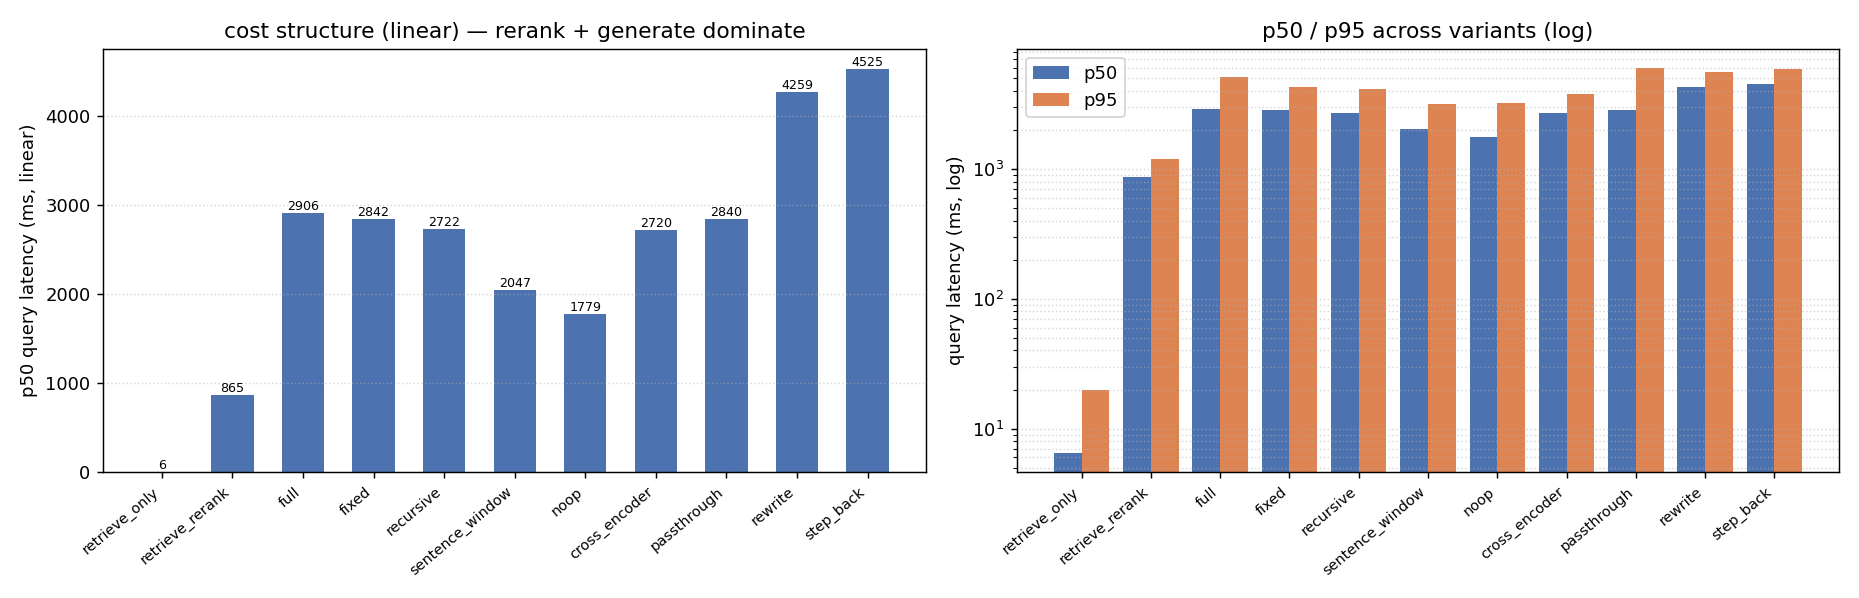
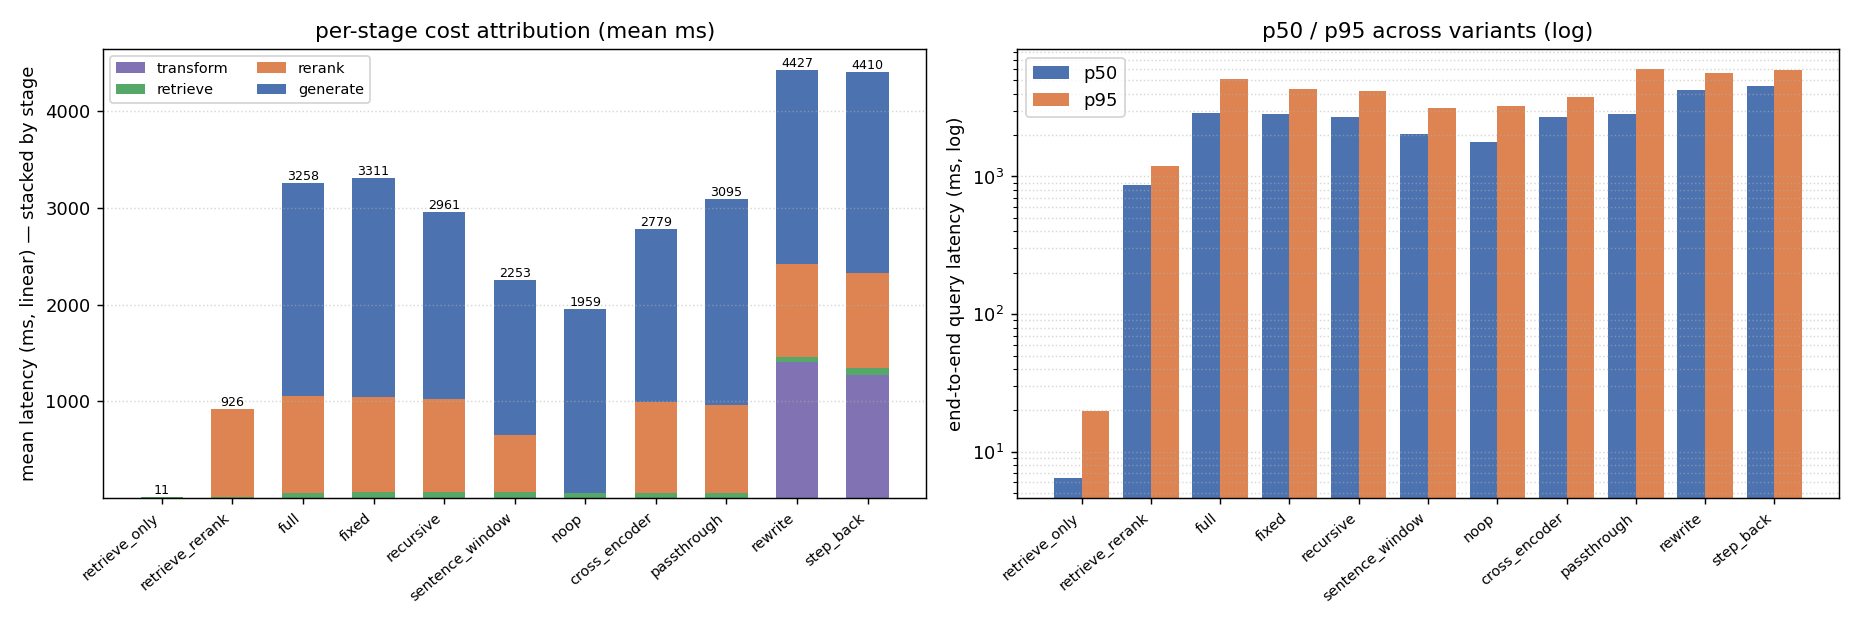
Report round 2: second adversarial pass (factual + visual fixes)
A second context-isolated critic cross-checked 15+ numbers. Round-2 fixes:

- FACTUAL: 'recall@50 saturated at ~0.85, cannot discriminate' was false —
  it's 0.85 only on the base index and drops to 0.72/0.78/0.79 for
  sentence_window / qt_step_back / qt_rewrite. Corrected in both places;
  surfaced the drops in §2/§4. (M1)
- SELF-CONTRADICTION: headline said the reranker degrades MRR, but the
  reranker leaves MRR identical (re-orders the same candidates). Scoped
  MRR-degradation to the transforms; reranker = 'MRR unchanged, p@n within
  noise'. (m4)
- Latency figure's linear panel is now a STACKED per-stage bar
  (transform/retrieve/rerank/generate), so 'rerank + generate dominate'
  is shown, not just asserted; transform slice is visible on rewrite/
  step_back. (M3)
- Per-family figures get captions pointing to the latency figure/table,
  since quality-only charts hid the headline cost finding. (M2)
- rewrite/step_back MRR drops reclassified as single-LLM-draw (not
  run-to-run deterministic) in §5. (m3)
- Disclosed index-size asymmetry (sentence_window 4,519 vs ~3,222
  chunks). (m2)
- Noted the mean (per-stage) vs p50 (end-to-end) statistic distinction. (m1)
- Auto-generated tables now carry a noise-floor + '— means not measured'
  footnote for tables-only readers. (m5)

diff --git a/scripts/plot_experiments.py b/scripts/plot_experiments.py
@@ -144,50 +144,58 @@ def plot_latency(variants: dict[str, Any], out_dir: Path) -> Path | None:
     """Per-query latency across variants, drawn twice.
 
     Two panels because no single y-axis is honest here: values span ~8 ms (retrieve-only)
-    to ~4.5 s (judged + transform). A **linear** panel (left) shows the true cost
-    structure — the headline finding that rerank and generation dominate — with the ms
-    value labelled on each bar so the magnitudes are unambiguous. A **log** panel (right)
-    keeps every variant visible for cross-variant comparison. Reading only the log panel
-    would visually flatten the 360× spread the linear panel exists to show.
+    to ~4.5 s (judged + transform). The **linear** panel (left) is a **stacked per-stage**
+    bar (transform / retrieve / rerank / generate mean ms) so the cost *attribution* — the
+    headline finding that rerank and generation dominate, and that the LLM transforms add a
+    third large slice — is visible, not just asserted. The **log** panel (right) shows
+    end-to-end p50/p95 so every variant stays comparable across the 8 ms–4.5 s range; reading
+    only the log panel would flatten the ~two-orders-of-magnitude spread the linear panel
+    exists to show.
     """
-    rows: list[tuple[str, float, float]] = []
+    stage_keys = [
+        ("transform_ms", "transform", _COLORS[4]),
+        ("retrieve_ms", "retrieve", _COLORS[2]),
+        ("rerank_ms", "rerank", _COLORS[1]),
+        ("generate_ms", "generate", _COLORS[0]),
+    ]
+    rows: list[tuple[str, dict[str, Any]]] = []
     for names in FAMILIES.values():
         for name, summary in _summaries(variants, names):
-            p50 = summary.get("query_latency_ms_p50")
-            p95 = summary.get("query_latency_ms_p95")
-            if p50 is not None:
-                rows.append((name, p50, p95 if p95 is not None else p50))
+            if summary.get("query_latency_ms_p50") is not None:
+                rows.append((name, summary))
     if not rows:
         return None
 
     fig, (ax_lin, ax_log) = plt.subplots(
-        1, 2, figsize=(max(12, len(rows) * 1.3), 4.6)
+        1, 2, figsize=(max(12, len(rows) * 1.3), 4.8)
     )
-    x = range(len(rows))
+    x = list(range(len(rows)))
     width = 0.4
-    labels = [_short(r[0]) for r in rows]
+    labels = [_short(name) for name, _ in rows]
 
-    # Linear panel: p50 only, value-labelled — the honest cost-structure view.
-    bars = ax_lin.bar(list(x), [r[1] for r in rows], width=0.6, color=_COLORS[0])
-    for rect, (_, p50, _) in zip(bars, rows, strict=True):
-        ax_lin.annotate(
-            f"{p50:.0f}", (rect.get_x() + rect.get_width() / 2, p50),
-            ha="center", va="bottom", fontsize=7,
-        )
-    ax_lin.set_ylabel("p50 query latency (ms, linear)")
-    ax_lin.set_xticks(list(x))
+    # Linear panel: stacked per-stage mean latency — shows WHERE the cost goes.
+    bottoms = [0.0] * len(rows)
+    for key, label, color in stage_keys:
+        heights = [float(s.get(key) or 0.0) for _, s in rows]
+        ax_lin.bar(x, heights, width=0.6, bottom=bottoms, label=label, color=color)
+        bottoms = [b + h for b, h in zip(bottoms, heights, strict=True)]
+    for i, total in enumerate(bottoms):
+        ax_lin.annotate(f"{total:.0f}", (i, total), ha="center", va="bottom", fontsize=7)
+    ax_lin.set_ylabel("mean latency (ms, linear) — stacked by stage")
+    ax_lin.set_xticks(x)
     ax_lin.set_xticklabels(labels, rotation=40, ha="right", fontsize=8)
-    ax_lin.set_title("cost structure (linear) — rerank + generate dominate")
+    ax_lin.set_title("per-stage cost attribution (mean ms)")
+    ax_lin.legend(fontsize=8, ncol=2)
     ax_lin.grid(axis="y", linestyle=":", alpha=0.5)
 
-    # Log panel: p50 + p95, every variant visible across the 8ms–4.5s range.
-    ax_log.bar([i - width / 2 for i in x], [r[1] for r in rows], width, label="p50",
-               color=_COLORS[0])
-    ax_log.bar([i + width / 2 for i in x], [r[2] for r in rows], width, label="p95",
-               color=_COLORS[1])
+    # Log panel: end-to-end p50 + p95, every variant visible across the 8ms–4.5s range.
+    p50s = [float(s["query_latency_ms_p50"]) for _, s in rows]
+    p95s = [float(s.get("query_latency_ms_p95") or s["query_latency_ms_p50"]) for _, s in rows]
+    ax_log.bar([i - width / 2 for i in x], p50s, width, label="p50", color=_COLORS[0])
+    ax_log.bar([i + width / 2 for i in x], p95s, width, label="p95", color=_COLORS[1])
     ax_log.set_yscale("log")
-    ax_log.set_ylabel("query latency (ms, log)")
-    ax_log.set_xticks(list(x))
+    ax_log.set_ylabel("end-to-end query latency (ms, log)")
+    ax_log.set_xticks(x)
     ax_log.set_xticklabels(labels, rotation=40, ha="right", fontsize=8)
     ax_log.set_title("p50 / p95 across variants (log)")
     ax_log.legend()

diff --git a/scripts/run_experiments.py b/scripts/run_experiments.py
@@ -392,9 +392,13 @@ def render_report(collected: dict[str, dict[str, Any]], *, k: int, n: int) -> st
 
     lines.append("\n---\n")
     lines.append(
-        "_Generated by `scripts/run_experiments.py`. Numbers from LLM-backed stages "
-        "(rewrite/step_back transforms, generation, judge) vary run-to-run and are not "
-        "bit-reproducible._\n"
+        "_Generated by `scripts/run_experiments.py`. **Each variant is a single run.** "
+        "Generation/judge metrics (`ans_correct`, `faith`, `relevance`) and the LLM "
+        "transforms vary run-to-run; the measured generation noise floor is ~0.09 "
+        "(`ans_correct` range across four identical-pipeline variants), so treat any "
+        "generation delta of that order or smaller as noise, not a technique effect. `—` "
+        "means a metric was not measured (e.g. no generation under `--no-generate`), not a "
+        "score of zero. See `EXPERIMENT_REPORT.md` for the full interpretation._\n"
     )
     return "\n".join(lines)
 

diff --git a/docs/EXPERIMENT_REPORT.md b/docs/EXPERIMENT_REPORT.md
@@ -8,11 +8,13 @@ separately.
 
 **The headline, stated carefully:** on this corpus, the two techniques the architecture doc
 expected to help most — the cross-encoder reranker and query transforms — **add latency
-without buying measurable quality**, and degrade the *deterministic* retrieval-ranking
-metrics (MRR, precision@n). The harness is doing its job: it tells you what actually moved
-the numbers here, not what should in general. We are deliberate below about which findings
-are **established** (deterministic, reproducible) versus **directional** (generation-judge
-metrics inside the measured noise) — see §5.
+without buying measurable quality.** The reranker leaves retrieval ranking untouched (it
+re-orders an identical candidate set) and nudges precision@n down within the noise; the LLM
+query transforms actively *degrade* retrieval ranking (MRR and recall drop). The harness is
+doing its job: it tells you what actually moved the numbers here, not what should in general.
+We are deliberate below about which findings are **established** (deterministic,
+reproducible) versus **directional** (generation-judge metrics inside the measured noise) —
+see §5.
 
 ## How to read this (and what NOT to over-read)
 
@@ -41,14 +43,21 @@ metrics inside the measured noise) — see §5.
   answer.lower()`), so it under-counts correct paraphrases. `faithfulness` and
   `answer_relevance` (LLM-judge) are the better generation signals — but they are *also*
   single-run and noisy; only the retrieval/rerank metrics are deterministic.
-- **`recall@k` (k=50) is saturated** at ~0.85 — over-retrieving 50 of 3,200 chunks almost
-  always catches the gold one. **Read `recall@5` and `MRR` for retrieval deltas.**
-- **Latency** is per-query wall-clock **p50/p95 in ms**, steady-state (cold model loads are
-  warmed off first). p50/p95 are reported because the mean is cold-load-sensitive. The
-  **latency chart is two panels** (`figures/latency.png`): a *linear* panel for the true
-  cost magnitudes and a *log* panel for cross-variant visibility — read the linear one for
-  the cost story. A per-stage breakdown (transform/retrieve/rerank/generate ms) is in
-  `experiment_tables.md` under "per-stage latency".
+- **`recall@k` (k=50) is high but not flat.** It sits at 0.848 for the seven variants that
+  share the base index (over-retrieving 50 of ~3,200 chunks usually catches the gold one),
+  but it **drops where the candidate pool changes** — sentence_window 0.721, qt_rewrite
+  0.788, qt_step_back 0.778. So recall@50 is a *weak* discriminator, not a useless one; it
+  still flags the techniques that move the candidate set. **`recall@5` and `MRR` remain the
+  sharper retrieval signals.**
+- **Latency** is per-query wall-clock in ms, steady-state (cold model loads warmed off
+  first). The **latency chart is two panels** (`figures/latency.png`): a *linear, stacked
+  per-stage* panel (transform/retrieve/rerank/generate **means**, which sum to the
+  end-to-end time) that shows *where* the cost goes, and a *log* panel of *end-to-end
+  p50/p95* for cross-variant visibility. The same per-stage means are tabled in
+  `experiment_tables.md` under "per-stage latency". **Note two different statistics are in
+  play:** per-stage costs are reported as *means*; the end-to-end "p50/p95" and the
+  "~940 ms"-style deltas in the prose are *percentiles*. They are close here (~0.9 s rerank
+  either way) but not identical — means are cold-load-sensitive, percentiles less so.
 - **Reproducibility:** retrieval/rerank metrics are deterministic and will reproduce exactly;
   generation, judge, and the LLM query transforms vary run-to-run. **Each variant is a single
   run** — no variance is reported, which is the report's main statistical limitation.
@@ -66,6 +75,9 @@ Hold ingest fixed (recursive chunk, bge-small embed, FAISS flat); add one query-
 at a time.
 
 ![ablation](figures/ablation.png)
+
+_(Quality metrics only; the latency cost of each stage is in `figures/latency.png` and the
+per-stage table in `experiment_tables.md`.)_
 
 | rung | recall@5 | MRR | p@n | ans_correct | faith | relevance | lat p50/p95 (ms) |
 |---|---|---|---|---|---|---|---|
@@ -114,11 +126,13 @@ ground truth must be regenerated per chunker — otherwise retrieval scores garb
   recursive chunker's advantage shows up on long, headed documents, which this corpus lacks.
   The `ans_correct` gap (0.455 vs 0.424, Δ 0.031) is **well inside the ~0.09 noise floor →
   not a real difference**, and is single-run anyway.
-- **sentence_window makes a genuine trade.** recall@5 drops hard (0.74 → 0.54) — smaller
-  units mean the gold sentence-window is more often outside the top-5 — but precision@n
-  *rises* (0.087 → 0.136), because the windows that do surface are tighter. This is the
-  textbook small-retrieval-unit trade-off, and it is the one real, above-noise retrieval
-  effect in the chunker family.
+- **sentence_window makes a genuine trade.** recall@5 drops hard (0.74 → 0.54) and even
+  recall@50 falls (0.85 → 0.72) — smaller units mean the gold sentence-window is more often
+  outside the top-k — but precision@n *rises* (0.087 → 0.136), because the windows that do
+  surface are tighter. This is the textbook small-retrieval-unit trade-off, and it is the one
+  real, above-noise retrieval effect in the chunker family. Note this variant indexes **4,519
+  chunks vs ~3,222** for fixed/recursive — it splits the same corpus into more, smaller
+  units, which is *why* the gold unit is harder to land in the top-k.
 
 > **No chunker is a free win here.** recursive is a safe default; sentence_window is only
 > worth it if you add parent-document expansion (retrieve the precise window, feed the
@@ -133,6 +147,9 @@ The architecture doc calls the cross-encoder "usually the biggest quality jump p
 code." **Here it does not help — and the deterministic metrics say it slightly hurts.**
 
 ![reranker](figures/reranker.png)
+
+_(Quality metrics only — the reranker's ~940 ms cost is in the latency figure/table, not
+here.)_
 
 | reranker | recall@5 | MRR | p@n | ans_correct | faith | relevance | lat p50/p95 (ms) |
 |---|---|---|---|---|---|---|---|
@@ -174,6 +191,9 @@ still answers the original question.
 
 ![query_transform](figures/query_transform.png)
 
+_(Quality metrics only — the ~1.3 s the transform LLM call adds is the bottom slice of each
+bar in the latency figure's stacked panel.)_
+
 | transform | recall@5 | recall@10 | MRR | ans_correct | faith | relevance | lat p50/p95 (ms) |
 |---|---|---|---|---|---|---|---|
 | passthrough | 0.737 | 0.747 | 0.583 | 0.394 | 0.995 | 0.738 | 2840 / 6035 |
@@ -209,12 +229,16 @@ variants are.
 
 **Establishes — deterministic + reproducible (on this corpus):** these come from
 retrieval/rerank metrics and latency, which reproduce exactly run-to-run.
-- Dense retrieval alone is strong (recall@5 ≈ 0.74, MRR ≈ 0.58); over-retrieval saturates
-  recall@50 (≈ 0.85), so recall@50 cannot discriminate techniques here.
+- Dense retrieval alone is strong (recall@5 ≈ 0.74, MRR ≈ 0.58). recall@50 is high (0.85 on
+  the base index) but **not saturated** — it drops to 0.72–0.79 for sentence_window and the
+  two transforms, i.e. it still registers techniques that change the candidate pool.
 - sentence_window trades retrieval recall for rerank precision (recall@5 0.74 → 0.54, p@n
   0.087 → 0.136) — the one clearly above-floor retrieval effect in the sweep.
 - Both LLM query transforms degrade retrieval *ranking* on terse factoid queries (MRR 0.583
-  → 0.481 rewrite, → 0.405 step_back).
+  → 0.481 rewrite, → 0.405 step_back; recall@50 also drops, 0.848 → 0.79/0.78). One caveat:
+  the *direction* is robust and large, but the exact value is a **single LLM rewrite draw** —
+  retrieval is deterministic only *given* the rewritten query, and the rewrite itself varies
+  run-to-run. Read these as "transforms clearly hurt ranking here," not as bit-exact numbers.
 - The cross-encoder reranker adds ~940 ms and does not improve any metric here (precision@n
   drifts down). **Cost established; "improves nothing" established; "actively harms quality"
   is *not* — see below.**

diff --git a/docs/experiment_tables.md b/docs/experiment_tables.md
@@ -73,4 +73,4 @@ _Baseline: `qt_passthrough`. Deltas below are vs. this row._
 
 ---
 
-_Generated by `scripts/run_experiments.py`. Numbers from LLM-backed stages (rewrite/step_back transforms, generation, judge) vary run-to-run and are not bit-reproducible._
+_Generated by `scripts/run_experiments.py`. **Each variant is a single run.** Generation/judge metrics (`ans_correct`, `faith`, `relevance`) and the LLM transforms vary run-to-run; the measured generation noise floor is ~0.09 (`ans_correct` range across four identical-pipeline variants), so treat any generation delta of that order or smaller as noise, not a technique effect. `—` means a metric was not measured (e.g. no generation under `--no-generate`), not a score of zero. See `EXPERIMENT_REPORT.md` for the full interpretation._
